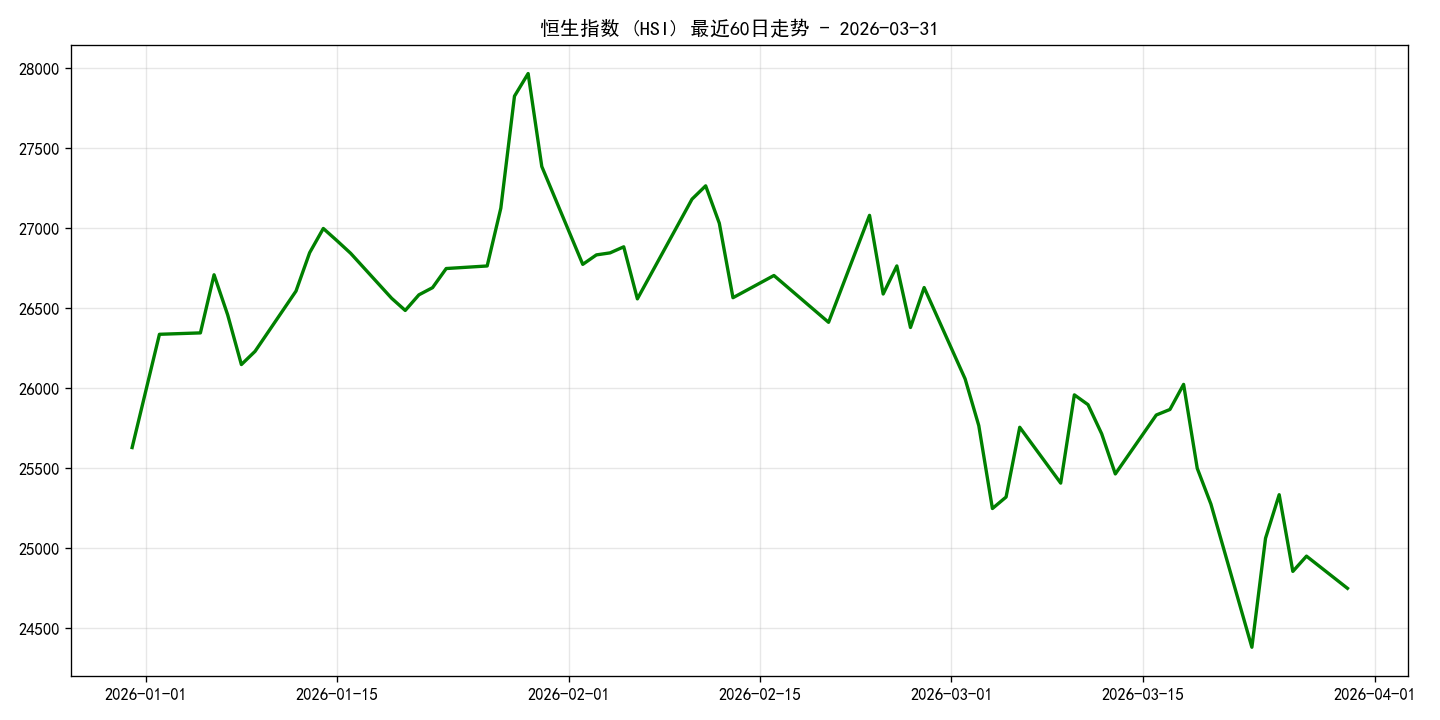
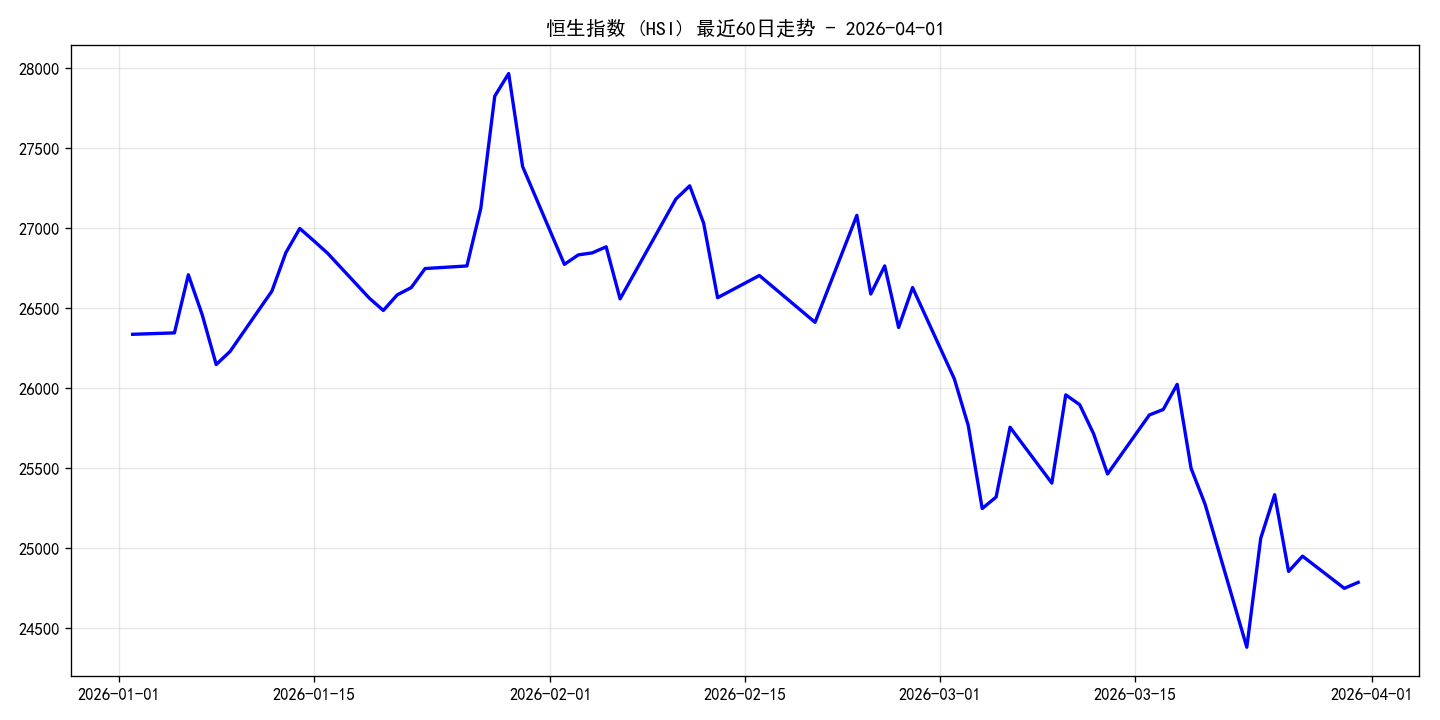
Auto: Daily HK-share Recap Update 2026-04-01

diff --git a/hkshare_recap.html b/hkshare_recap.html
@@ -3,7 +3,7 @@
 <head>
     <meta charset="UTF-8">
     <meta name="viewport" content="width=device-width, initial-scale=1.0">
-    <title>港股收盘复盘 - 2026-03-31</title>
+    <title>港股收盘复盘 - 2026-04-01</title>
     <style>
         body { font-family: sans-serif; padding: 20px; line-height: 1.6; max-width: 800px; margin: 0 auto; background: #f9f9f9; }
         .card { background: white; padding: 20px; border-radius: 12px; shadow: 0 4px 10px rgba(0,0,0,0.1); }
@@ -15,12 +15,12 @@
 </head>
 <body>
     <div class="card">
-        <h1>港股收盘复盘 (2026-03-31)</h1>
+        <h1>港股收盘复盘 (2026-04-01)</h1>
         <div class="stat">
-            恒生指数 (HSI)：24750.79 
-            <span class="down">(-0.81%)</span>
+            恒生指数 (HSI)：24788.14 
+            <span class="up">(+0.15%)</span>
         </div>
-        <p>今日港股市场呈现<strong>下跌</strong>态势。恒指当前点位为 24750.79 点。</p>
+        <p>今日港股市场呈现<strong>上涨</strong>态势。恒指当前点位为 24788.14 点。</p>
         <img src="hkshare_recap_trend.png" alt="Trend">
         <hr>
         <p style="text-align: center; color: #666;">自动生成于收盘后一小时 | 投研助手 Q</p>
